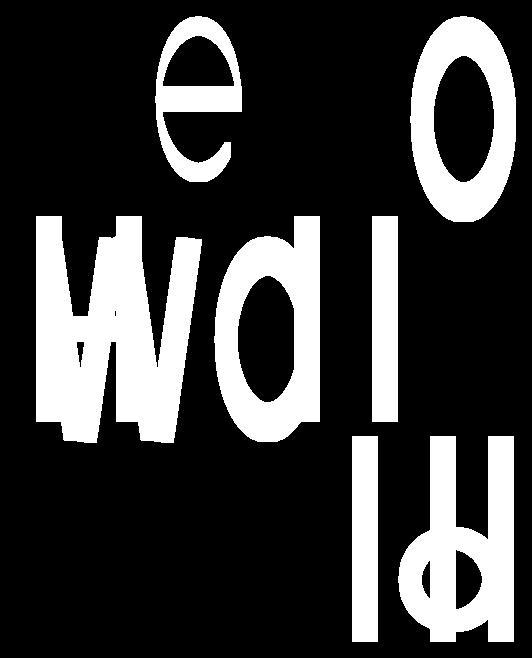
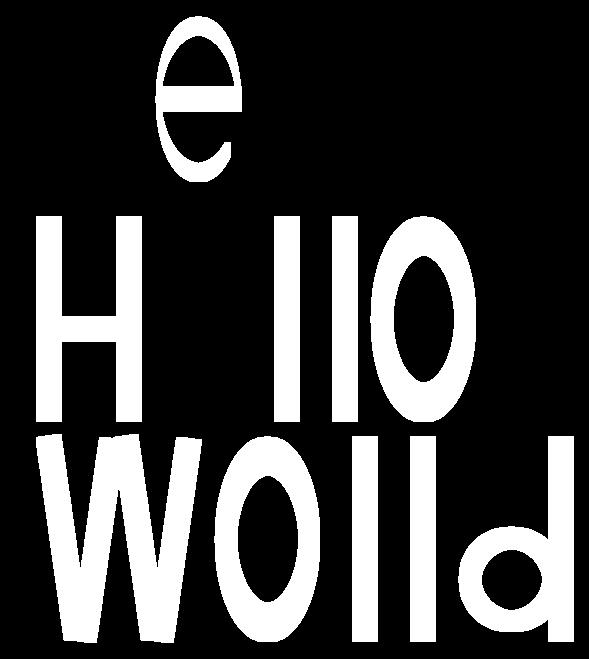
20/20 on a reussi

diff --git a/labo/src/tp1/LetterFactory.java b/labo/src/tp1/LetterFactory.java
@@ -44,7 +44,7 @@ public final class LetterFactory {
     public static BaseShape create_l()
     {
         BaseShape mainStripe = new Rectangle(stripeThickness, maxHeight);
-        return mainStripe.translate(new Point2d(10.0,0.0));
+        return mainStripe;
     }
 
     // TODO
@@ -52,7 +52,8 @@ public final class LetterFactory {
         BaseShape mainStripe = new Ellipse(halfMaxHeight/2,halfMaxHeight);
         BaseShape centreStripe= new Ellipse(halfMaxHeight/3,halfMaxHeight*2/3);
         mainStripe.removeAll(centreStripe.getCoords());
-        return mainStripe;
+        BaseShape deplacerStripe=mainStripe.translate(new Point2d(0.0,100.0));
+        return deplacerStripe;
     }
 
     // On vous donne la lettre W comme exemple.
@@ -67,8 +68,8 @@ public final class LetterFactory {
         leftStripe.add(middleLeftStripe);
         leftStripe.add(middleRightStripe);
         leftStripe.add(rightStripe);
-        BaseShape a= leftStripe.translate(new Point2d(0.0,-100.0));
-        return a;
+        //BaseShape a= leftStripe.translate(new Point2d(0.0,-100.0));
+        return leftStripe;
     }
 
     // TODO
@@ -89,7 +90,7 @@ public final class LetterFactory {
         //retourne dans un autre BaseShape les list de point
         BaseShape cercleTranslate=Circle.translate(new Point2d(-40.0, 140.0));
         mainStripe.add(cercleTranslate);
-
-        return mainStripe;
+        BaseShape translateStripe=mainStripe.translate(new Point2d(40.0,0.0));
+        return translateStripe;
     }
 }

diff --git a/labo/src/tp1/Main.java b/labo/src/tp1/Main.java
@@ -30,19 +30,5 @@ public class Main {
         else {
             System.out.println("Hello World!");
         }
-        try{LetterPlacer letterPlacer = new LetterPlacer();
-            letterPlacer.placeNext('o');
-            letterPlacer.placeNext('W');
-            letterPlacer.placeNextln('d');
-            letterPlacer.placeNext('l');
-            letterPlacer.placeNext('e');
-            File imgFile = letterPlacer.saveImage("w", false);
-            Desktop dt = Desktop.getDesktop();
-            dt.open(imgFile);
-            System.out.println("Bravo!");
-        }catch (SystemException e){
-
-            System.out.println("Erreur");
-        }
     }
 }

diff --git a/labo/src/tests/LetterTester.java b/labo/src/tests/LetterTester.java
@@ -33,7 +33,6 @@ public class LetterTester {
             String output = tesseract.doOCR(new File("all.jpg"))
                     .replaceAll("[^a-zA-Z0-9]", "").toLowerCase();
             String input = "helloworld";
-            System.out.println(output);
             return findMatchingChars(output, input).doubleValue();
         } catch (Exception e) {
             e.printStackTrace();
